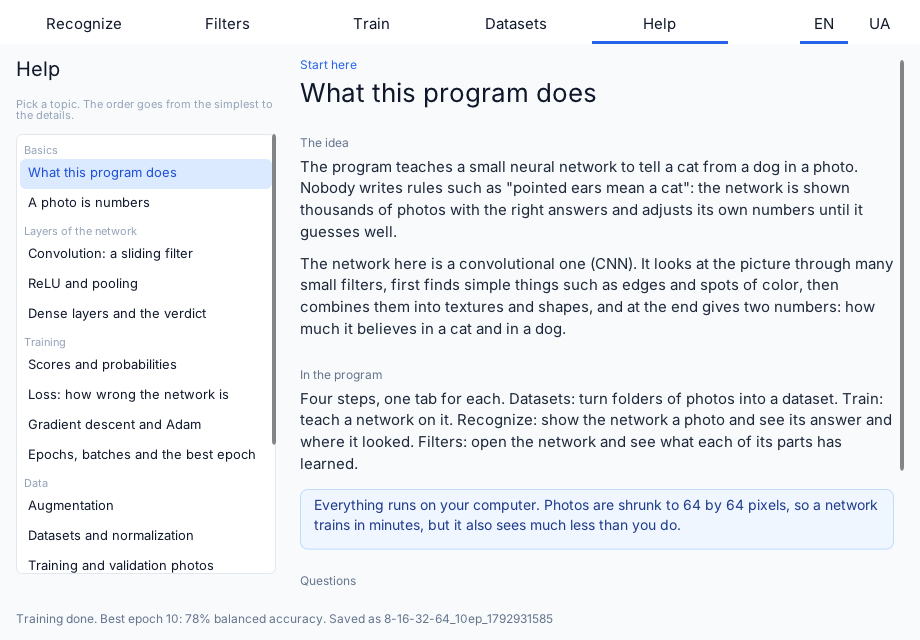
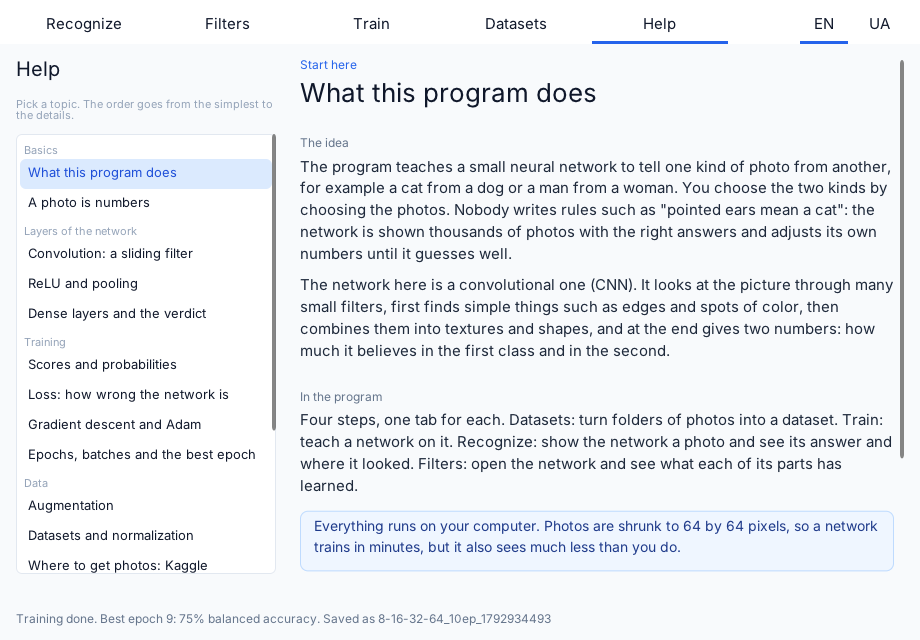
docs: refresh screenshots and describe the app as a general two-class classifier

Changed region(s): [[0.1826, 0.25, 0.9739, 1.0], [0.0304, 0.875, 0.2435, 0.9062]]

diff --git a/README.md b/README.md
@@ -1,8 +1,8 @@
-# Cats vs Dogs
+# Image Classifier
 
-An interactive image classifier written in C++23 on top of the [Wind engine](https://github.com/wismh/wind-engine). A small convolutional neural network learns to tell two kinds of pictures apart, cats from dogs by default, and every part of the process is visible: the photos it was trained on, the epochs as they finish, what each filter of the network looks for, and where on a photo the network found its evidence.
+An interactive two-class image classifier written in C++23 on top of the [Wind engine](https://github.com/wismh/wind-engine). A small convolutional neural network learns to tell two kinds of pictures apart, and every part of the process is visible: the photos it was trained on, the epochs as they finish, what each filter of the network looks for, and where on a photo the network found its evidence.
 
-The program is also a learning tool. You can turn any two folders of photos into a dataset, train networks of different sizes on it, continue training a saved network, and read a built-in reference that explains the ideas behind each step. The two classes are not fixed to cats and dogs: their names come from the folders the dataset was made from, so the same program tells men from women or anything else that two folders can describe.
+The program is also a learning tool. You can turn any two folders of photos into a dataset, train networks of different sizes on it, continue training a saved network, and read a built-in reference that explains the ideas behind each step. The two classes are whatever the folders describe: their names come from the subfolders the dataset was made from, so the same program tells cats from dogs, men from women, or any other pair. The screenshots below were made with a cats and dogs dataset.
 
 ![Recognize tab](docs/screenshots/recognize.png)
 
@@ -37,7 +37,7 @@ The program is also a learning tool. You can turn any two folders of photos into
 
 Every photo is cropped to a square and shrunk to 64x64 pixels with three color channels. The network is built from three blocks, each a 3x3 convolution, a ReLU and a 2x2 max pooling (64x64, then 32x32, then 16x16, down to 8x8), followed by a hidden dense layer with ReLU and a dense layer of two scores that become the two class probabilities. Three sizes are offered, from 4-8-16-32 to 16-32-64-128 (filters in the three blocks, then hidden neurons).
 
-Training is mini-batch gradient descent with Adam (batch of 32, learning rate 0.001) and cross-entropy loss. The dataset is split once into a training part and a validation part (20 percent), and the classes are weighted so that a class with fewer photos counts as much as the other. The numbers shown are the balanced accuracy, the mean of the two classes' accuracies, so a network that answers "dog" to everything does not look good just because there are more dogs. The network of the epoch with the lowest validation loss is the one that is saved.
+Training is mini-batch gradient descent with Adam (batch of 32, learning rate 0.001) and cross-entropy loss. The dataset is split once into a training part and a validation part (20 percent), and the classes are weighted so that a class with fewer photos counts as much as the other. The numbers shown are the balanced accuracy, the mean of the two classes' accuracies, so a network that always answers with the larger class does not look good just because that class has more photos. The network of the epoch with the lowest validation loss is the one that is saved.
 
 The seed of the split is stored in the network file, so a network trained further is checked on the same photos it was checked on before. The convolution and dense layers run on a blocked matrix multiplication with an AVX2 kernel and a portable fallback, spread over the engine's worker threads. Training runs in short slices every frame, so the window stays responsive and a run can be stopped at any time.
 
